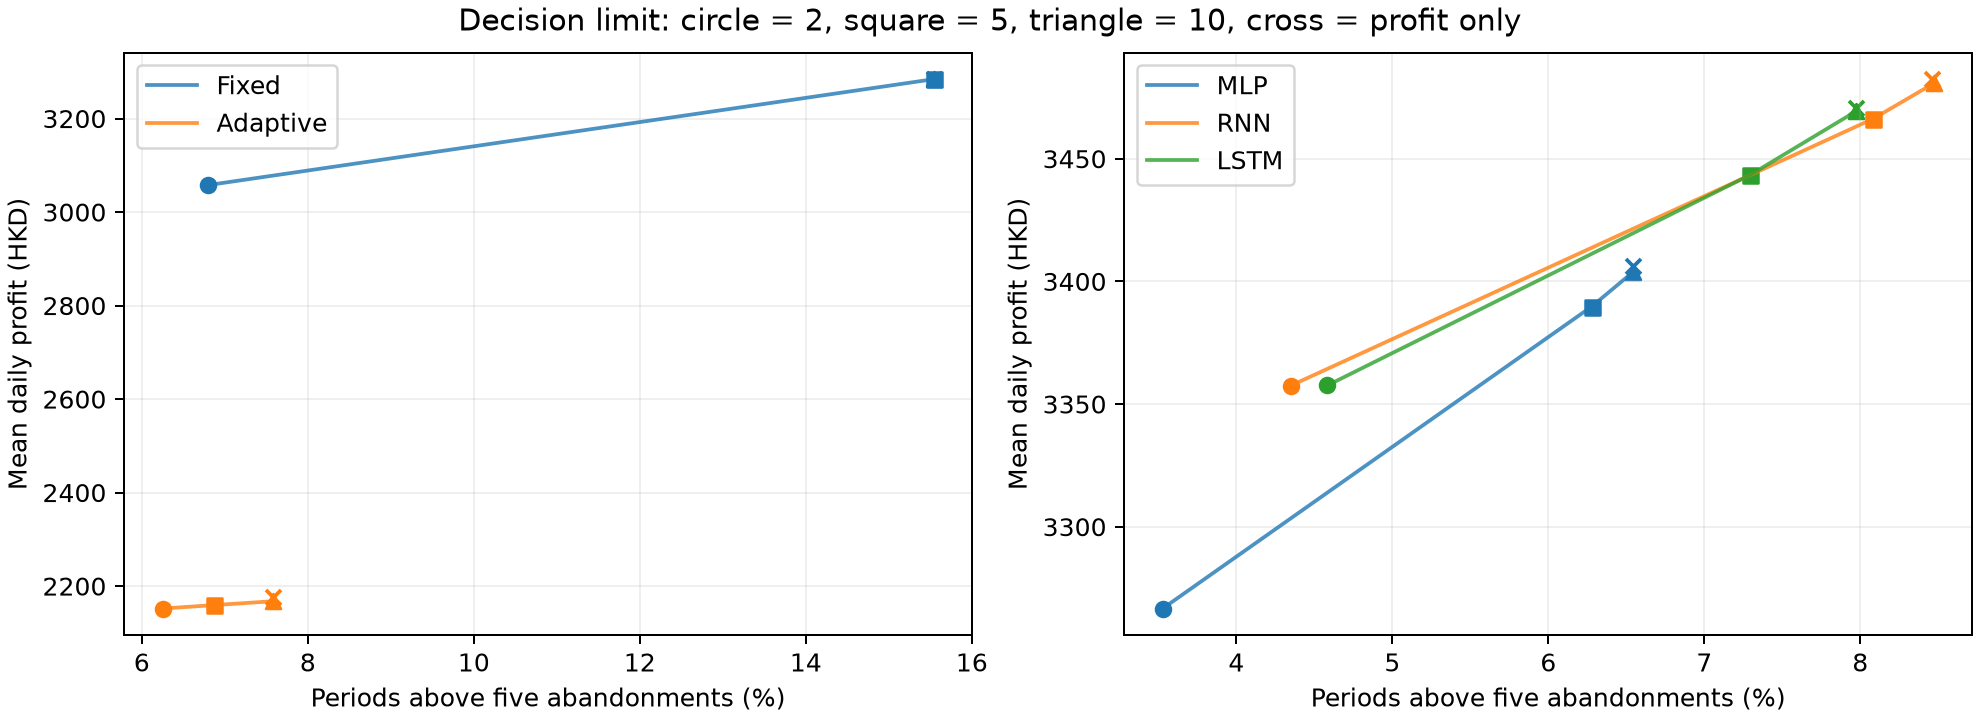
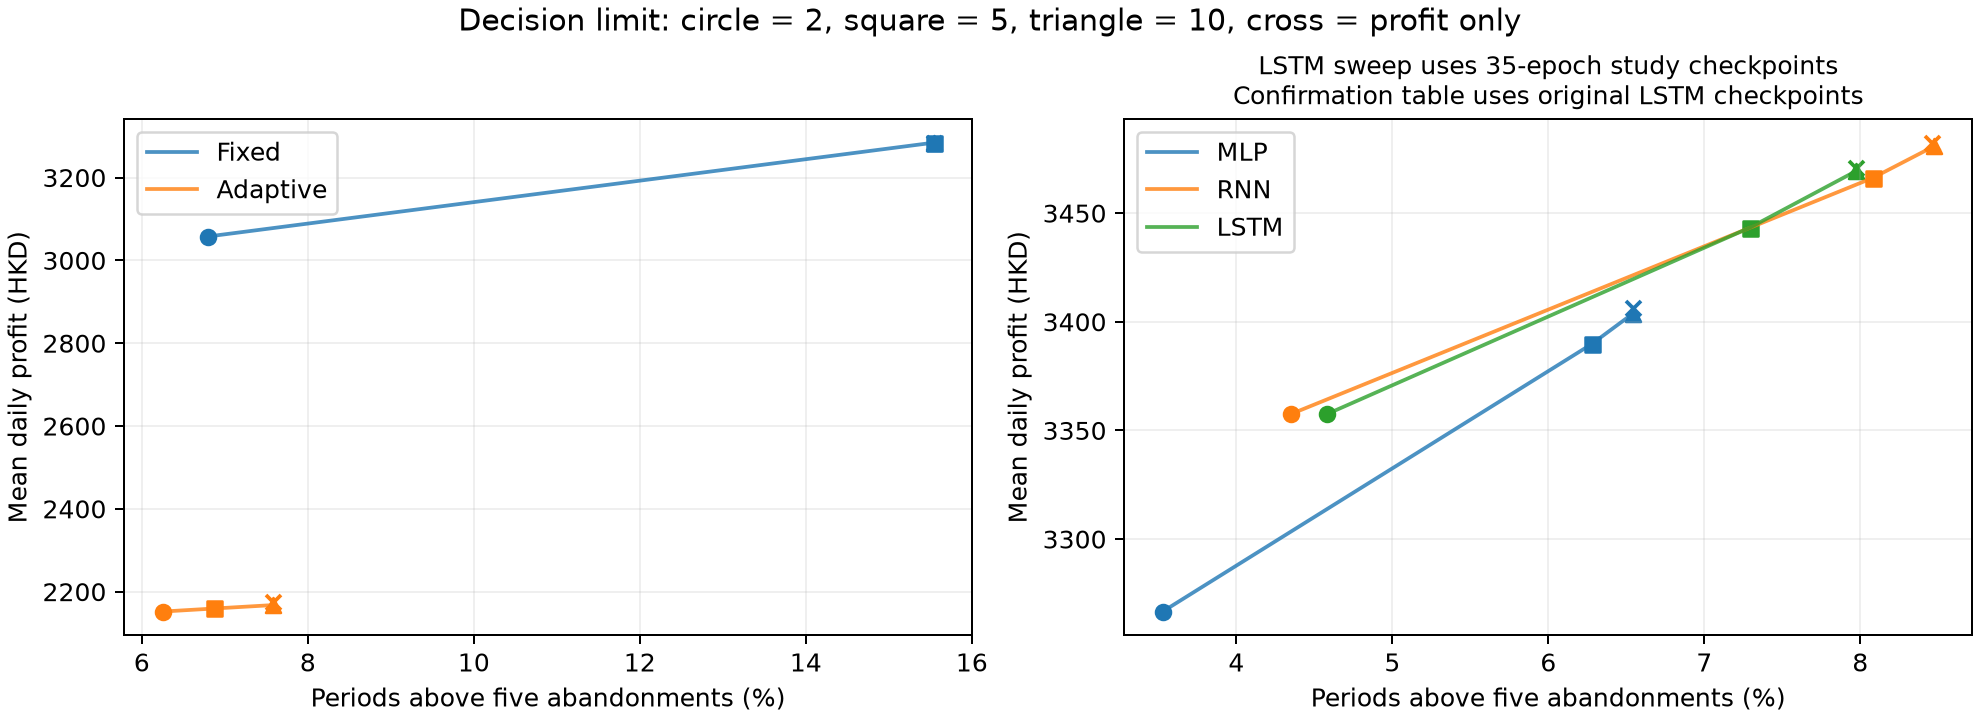
[Docs] qualify the service recommendation and label LSTM checkpoints
Features :
- Qualify the MLP service recommendation by decision limit. Compare
  its 6.28% violation rate at limit five with the RNN's 4.35% and
  the MLP's 3.53% at limit two using the same realized threshold.
- Label the 35-epoch LSTM checkpoints used in the service sweep and
  the original checkpoints used in the confirmation table directly
  on the figure. Preserve the labels in the plotting script.

Validation:
- Regenerated the figure from the saved experiment results.
- Passed git diff --check.

Remaining work:

diff --git a/scripts/summarize_service.py b/scripts/summarize_service.py
@@ -104,6 +104,10 @@ def main() -> None:
         ax.set_ylabel("Mean daily profit (HKD)")
         ax.grid(alpha=0.2)
 
+    axes[1].set_title(
+        "LSTM sweep uses 35-epoch study checkpoints\n"
+        "Confirmation table uses original LSTM checkpoints", fontsize=10
+    )
     fig.suptitle(
         "Decision limit: circle = 2, square = 5, triangle = 10, cross = profit only"
     )

diff --git a/docs/FINAL_REPORT.md b/docs/FINAL_REPORT.md
@@ -115,6 +115,6 @@ Regenerating the management dataset took 862.63 seconds of wall time with other 
 
 ## 7. Decision and limits
 
-For this simulator’s objective, **select the vanilla RNN**. It met the validation service constraint and its profit advantage persisted on fresh days. If management instead prioritizes the frequency of periods exceeding five abandonments, the MLP has the strongest fresh-day result. A hard per-period service requirement would call for evaluating a different decision rule.
+For this simulator’s objective, **select the vanilla RNN**. It met the validation service constraint and its profit advantage persisted on fresh days. At decision limit five, the MLP had the fewest periods above five realized abandonments (6.28%). At limit two, the RNN lowered that rate to 4.35%, and the MLP reached 3.53%. The operating limit can therefore matter as much as the architecture when choosing a service target. A hard per-period service requirement would call for evaluating a different decision rule.
 
 The uncertainty intervals resample matched days and are conditional on the trained seeds and simulated population. The market contains one fixed competitor, a frozen customer policy, a discrete catalogue and a four-period history. Prices and costs are model assumptions. These experiments support a choice within that setting; deployment would require independent evidence on actual arrivals, customer response and operating costs. The code, configuration and workflow are documented in the [project README](../README.md).
